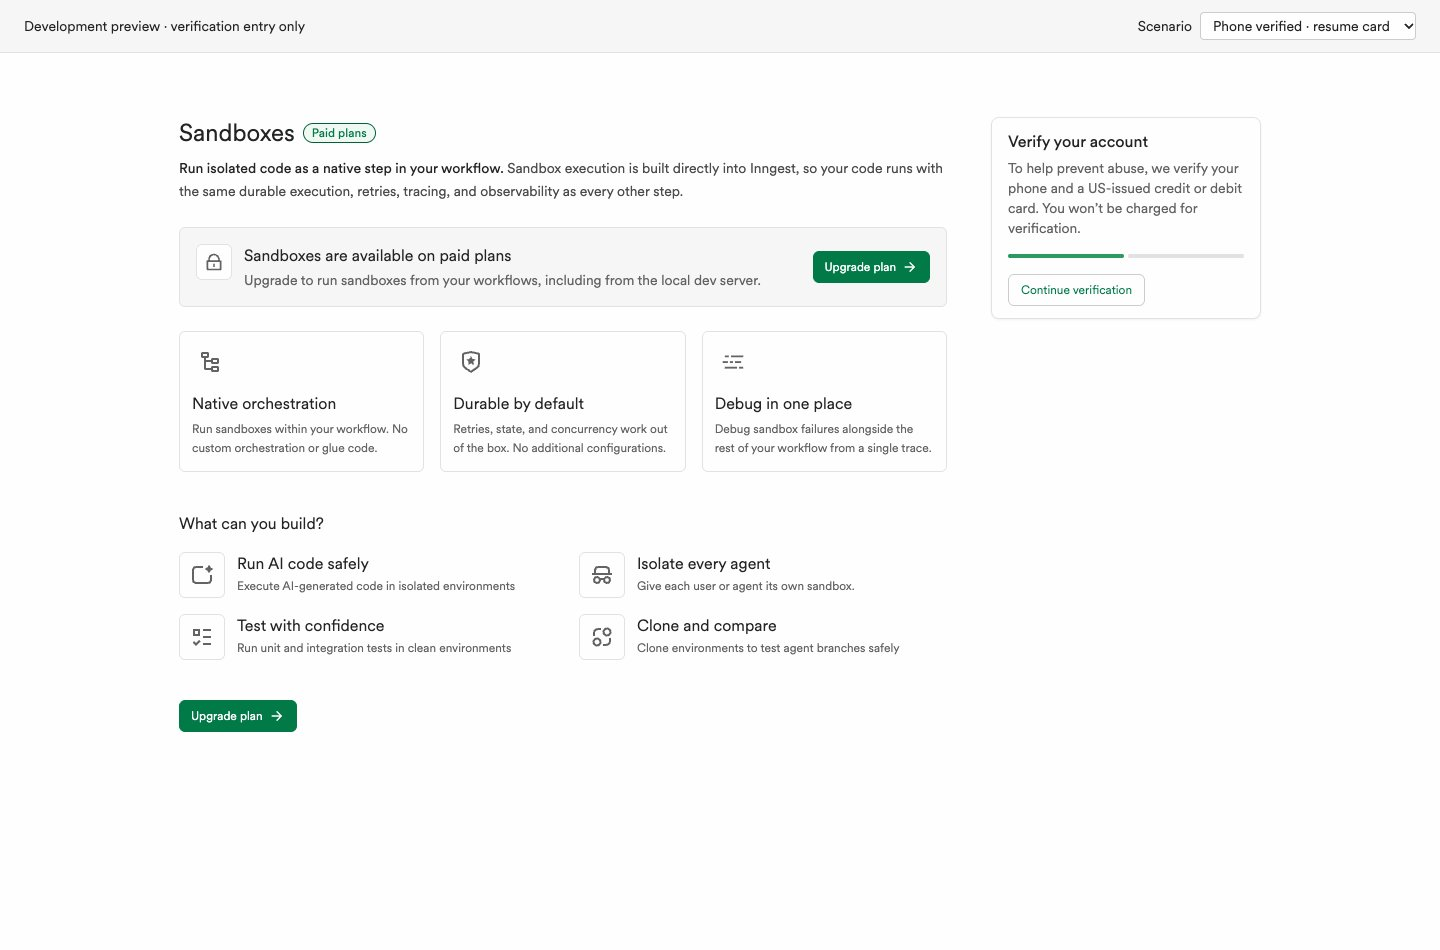
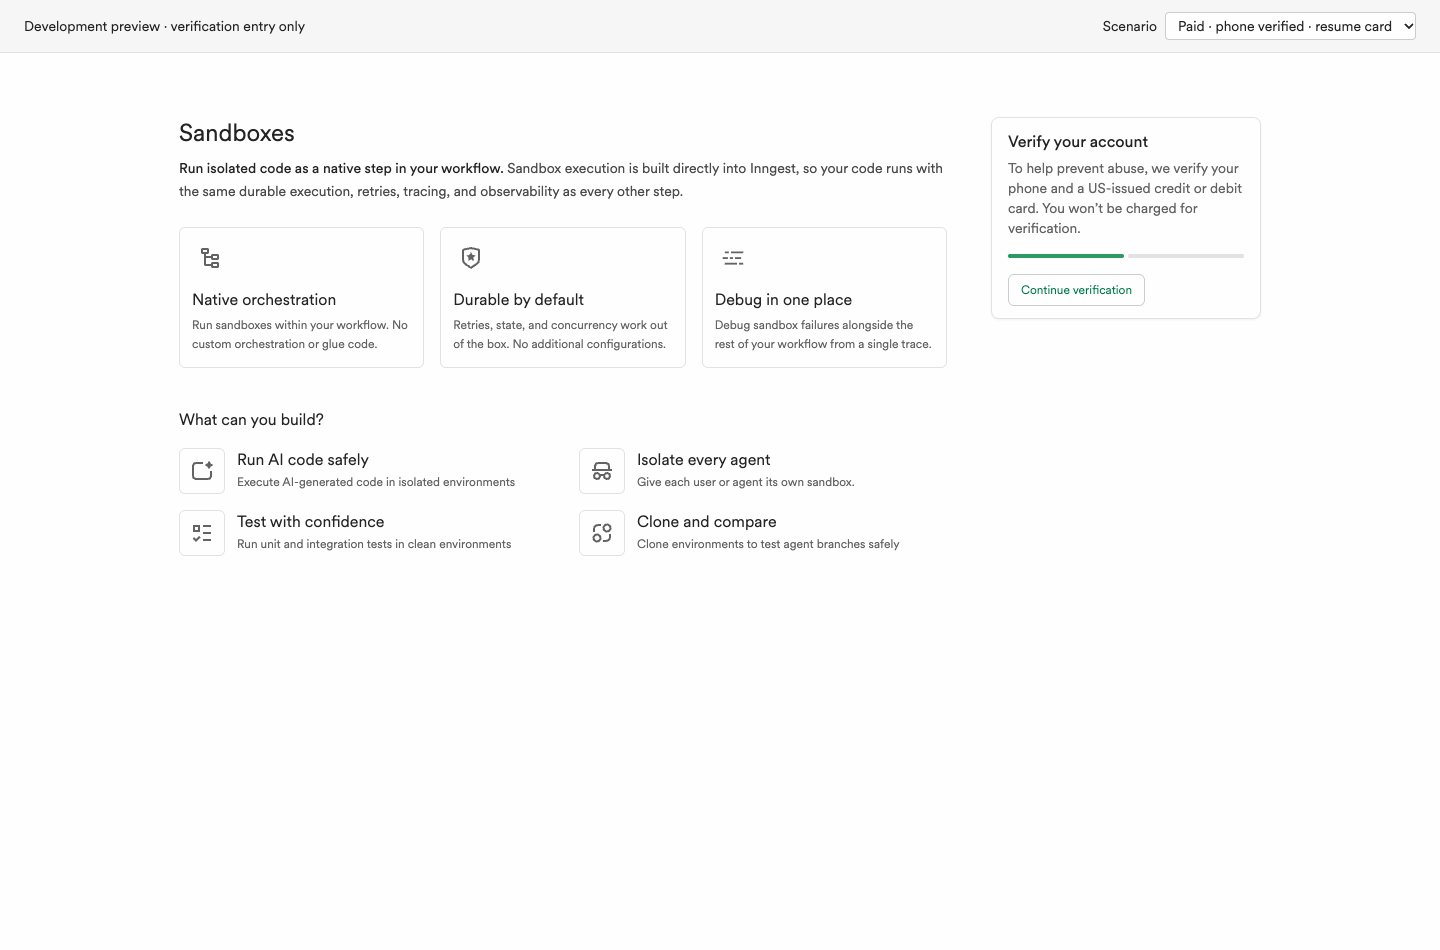
fix(cloud-ui): gate sandbox verification behind paid plans

diff --git a/ui/apps/dashboard/src/components/Sandboxes/SandboxesVerificationCallout.test.tsx b/ui/apps/dashboard/src/components/Sandboxes/SandboxesVerificationCallout.test.tsx
@@ -174,16 +174,54 @@ describe('Sandboxes zero-state composition', () => {
     expect(screen.queryByRole('complementary')).toBeNull();
   });
 
-  it('preserves content and upgrade destinations while adding and removing the callout', () => {
+  it.each<SandboxesVerificationState>([
+    initial,
+    { ...initial, started: true, progress: { completed: 1, total: 2 } },
+    { status: 'required', canVerify: false },
+    { status: 'loading' },
+    { status: 'error' },
+    { status: 'verified' },
+  ])(
+    'keeps only the upgrade treatment on a free plan with status $status',
+    (state) => {
+      const callbacks = { onVerify: vi.fn(), onRetry: vi.fn() };
+      const { container, rerender } = render(<SandboxesEmptyState />);
+      const originalContent = container.firstElementChild?.textContent;
+      const originalLinks = Array.from(
+        container.querySelectorAll('a'),
+        (link) => link.getAttribute('href'),
+      );
+      rerender(
+        <SandboxesEmptyState
+          hasPaidPlan={false}
+          verification={{ state, ...callbacks }}
+        />,
+      );
+      expect(container.firstElementChild?.textContent).toBe(originalContent);
+      expect(
+        Array.from(container.querySelectorAll('a'), (link) =>
+          link.getAttribute('href'),
+        ),
+      ).toEqual(originalLinks);
+      expect(
+        screen.getAllByRole('button', { name: 'Upgrade plan' }),
+      ).toHaveLength(2);
+      expect(screen.queryByRole('complementary')).toBeNull();
+      expect(callbacks.onVerify).not.toHaveBeenCalled();
+      expect(callbacks.onRetry).not.toHaveBeenCalled();
+    },
+  );
+
+  it('shows verification instead of upgrades on a paid plan and hides the gate after completion', () => {
     const callbacks = { onVerify: vi.fn(), onRetry: vi.fn() };
-    const { container, rerender } = render(<SandboxesEmptyState />);
+    const { container, rerender } = render(<SandboxesEmptyState hasPaidPlan />);
     const originalContent = container.firstElementChild?.textContent;
-    const originalLinks = Array.from(container.querySelectorAll('a'), (link) =>
-      link.getAttribute('href'),
-    );
 
     rerender(
-      <SandboxesEmptyState verification={{ state: initial, ...callbacks }} />,
+      <SandboxesEmptyState
+        hasPaidPlan
+        verification={{ state: initial, ...callbacks }}
+      />,
     );
     expect(screen.getByRole('complementary')).toBeTruthy();
     expect(
@@ -191,18 +229,22 @@ describe('Sandboxes zero-state composition', () => {
     ).toBeTruthy();
     fireEvent.click(screen.getByRole('button', { name: 'Start verification' }));
     expect(callbacks.onVerify).toHaveBeenCalledTimes(1);
+    expect(screen.queryByRole('button', { name: 'Upgrade plan' })).toBeNull();
+    expect(screen.queryByText('Paid plans')).toBeNull();
     expect(
-      Array.from(container.querySelectorAll('a'), (link) =>
-        link.getAttribute('href'),
-      ),
-    ).toEqual(originalLinks);
+      screen.queryByRole('heading', {
+        name: 'Sandboxes are available on paid plans',
+      }),
+    ).toBeNull();
 
     rerender(
       <SandboxesEmptyState
+        hasPaidPlan
         verification={{ state: { status: 'verified' }, ...callbacks }}
       />,
     );
     expect(screen.queryByRole('complementary')).toBeNull();
+    expect(screen.queryByRole('button', { name: 'Upgrade plan' })).toBeNull();
     expect(container.firstElementChild?.textContent).toBe(originalContent);
     expect(container.firstElementChild?.className).toContain('max-w-[816px]');
   });
@@ -211,6 +253,7 @@ describe('Sandboxes zero-state composition', () => {
     const callbacks = { onVerify: vi.fn(), onRetry: vi.fn() };
     const { rerender } = render(
       <SandboxesEmptyState
+        hasPaidPlan
         verification={{
           state: {
             ...initial,
@@ -226,6 +269,7 @@ describe('Sandboxes zero-state composition', () => {
     ).toBeTruthy();
     rerender(
       <SandboxesEmptyState
+        hasPaidPlan
         verification={{
           state: { status: 'required', canVerify: false },
           ...callbacks,
@@ -239,5 +283,26 @@ describe('Sandboxes zero-state composition', () => {
     expect(
       screen.getByRole('heading', { name: 'Ask an admin to verify' }),
     ).toBeTruthy();
+  });
+
+  it('removes stale verification actions when switching from a paid to a free account', () => {
+    const callbacks = { onVerify: vi.fn(), onRetry: vi.fn() };
+    const verification = { state: initial, ...callbacks };
+    const { rerender } = render(
+      <SandboxesEmptyState hasPaidPlan verification={verification} />,
+    );
+    expect(
+      screen.getByRole('button', { name: 'Start verification' }),
+    ).toBeTruthy();
+    rerender(
+      <SandboxesEmptyState hasPaidPlan={false} verification={verification} />,
+    );
+    expect(
+      screen.queryByRole('button', { name: 'Start verification' }),
+    ).toBeNull();
+    expect(screen.queryByRole('complementary')).toBeNull();
+    expect(
+      screen.getAllByRole('button', { name: 'Upgrade plan' }),
+    ).toHaveLength(2);
   });
 });

diff --git a/ui/apps/dashboard/src/components/Sandboxes/SandboxesEmptyState.tsx b/ui/apps/dashboard/src/components/Sandboxes/SandboxesEmptyState.tsx
@@ -40,15 +40,17 @@ function UpgradeButton() {
   );
 }
 
-// Shown to accounts whose plan does not grant sandbox access.
+// Plan eligibility is supplied separately from verification; default to the existing upgrade state.
 export default function SandboxesEmptyState({
+  hasPaidPlan = false,
   verification,
 }: {
+  hasPaidPlan?: boolean;
   verification?: SandboxesVerificationCalloutProps;
 } = {}) {
   const hasTrackedViewed = useRef(false);
   const showVerification =
-    verification && showsVerificationCallout(verification.state);
+    hasPaidPlan && verification && showsVerificationCallout(verification.state);
 
   // Fire the feature-tagged page-view event once per mount.
   useEffect(() => {
@@ -69,34 +71,38 @@ export default function SandboxesEmptyState({
       <div className="min-w-0">
         <div className="flex items-center gap-2">
           <h1 className="text-basis text-2xl">Sandboxes</h1>
-          <Pill kind="primary" appearance="outlined">
-            Paid plans
-          </Pill>
+          {!hasPaidPlan && (
+            <Pill kind="primary" appearance="outlined">
+              Paid plans
+            </Pill>
+          )}
         </div>
         <p className="text-subtle mt-2 text-sm leading-relaxed">
           <span className="text-basis font-medium">{INTRO_LEAD}</span>
           {INTRO_REST}
         </p>
 
-        <div className="border-subtle bg-canvasSubtle mt-6 flex flex-col gap-4 rounded-md border p-4 sm:flex-row sm:items-center sm:justify-between">
-          <div className="flex items-start gap-3">
-            <div className="border-subtle bg-canvasBase text-muted flex h-9 w-9 shrink-0 items-center justify-center rounded-md border">
-              <RiLockLine className="h-5 w-5" />
+        {!hasPaidPlan && (
+          <div className="border-subtle bg-canvasSubtle mt-6 flex flex-col gap-4 rounded-md border p-4 sm:flex-row sm:items-center sm:justify-between">
+            <div className="flex items-start gap-3">
+              <div className="border-subtle bg-canvasBase text-muted flex h-9 w-9 shrink-0 items-center justify-center rounded-md border">
+                <RiLockLine className="h-5 w-5" />
+              </div>
+              <div>
+                <h2 className="text-basis text-base">
+                  Sandboxes are available on paid plans
+                </h2>
+                <p className="text-muted mt-0.5 text-sm">
+                  Upgrade to run sandboxes from your workflows, including from
+                  the local dev server.
+                </p>
+              </div>
             </div>
-            <div>
-              <h2 className="text-basis text-base">
-                Sandboxes are available on paid plans
-              </h2>
-              <p className="text-muted mt-0.5 text-sm">
-                Upgrade to run sandboxes from your workflows, including from the
-                local dev server.
-              </p>
+            <div className="shrink-0">
+              <UpgradeButton />
             </div>
           </div>
-          <div className="shrink-0">
-            <UpgradeButton />
-          </div>
-        </div>
+        )}
 
         <div className="mt-6 grid grid-cols-1 gap-4 sm:grid-cols-3">
           {FEATURES.map(({ Icon, title, description }) => (
@@ -130,9 +136,11 @@ export default function SandboxesEmptyState({
           ))}
         </div>
 
-        <div className="mt-10">
-          <UpgradeButton />
-        </div>
+        {!hasPaidPlan && (
+          <div className="mt-10">
+            <UpgradeButton />
+          </div>
+        )}
       </div>
       {showVerification && (
         <aside className="row-start-1 min-w-0 lg:col-start-2">

diff --git a/ui/apps/dashboard/src/components/Sandboxes/verification-demo/SandboxesVerificationDemo.tsx b/ui/apps/dashboard/src/components/Sandboxes/verification-demo/SandboxesVerificationDemo.tsx
@@ -5,8 +5,17 @@ import SandboxesEmptyState from '../SandboxesEmptyState';
 import type { SandboxesVerificationState } from '../SandboxesVerificationCallout';
 
 const scenarios = {
+  free: {
+    label: 'Free plan · upgrade only',
+    state: {
+      status: 'required',
+      canVerify: true,
+      started: false,
+      progress: { completed: 0, total: 2 },
+    },
+  },
   start: {
-    label: 'Not started',
+    label: 'Paid · not started',
     state: {
       status: 'required',
       canVerify: true,
@@ -15,7 +24,7 @@ const scenarios = {
     },
   },
   resume: {
-    label: 'Phone verified · resume card',
+    label: 'Paid · phone verified · resume card',
     state: {
       status: 'required',
       canVerify: true,
@@ -24,7 +33,7 @@ const scenarios = {
     },
   },
   started: {
-    label: 'Started · no checks complete',
+    label: 'Paid · started · no checks complete',
     state: {
       status: 'required',
       canVerify: true,
@@ -33,17 +42,17 @@ const scenarios = {
     },
   },
   member: {
-    label: 'Admin required',
+    label: 'Paid · admin required',
     state: { status: 'required', canVerify: false },
   },
-  loading: { label: 'Loading', state: { status: 'loading' } },
-  error: { label: 'Status error · retry', state: { status: 'error' } },
+  loading: { label: 'Paid · loading', state: { status: 'loading' } },
+  error: { label: 'Paid · status error · retry', state: { status: 'error' } },
   verified: {
-    label: 'Verified · callout hidden',
+    label: 'Paid · verified · no gate',
     state: { status: 'verified' },
   },
   exempt: {
-    label: 'Not required · callout hidden',
+    label: 'Paid · not required · no gate',
     state: { status: 'not-required' },
   },
 } satisfies Record<
@@ -76,7 +85,7 @@ export function SandboxesVerificationDemo() {
     <div className="bg-canvasBase text-basis min-h-screen">
       <header className="border-subtle bg-canvasSubtle flex flex-wrap items-center justify-between gap-3 border-b px-6 py-3 text-sm">
         <p>Development preview · verification entry only</p>
-        <label className="flex items-center gap-2">
+        <label className="flex min-w-0 flex-wrap items-center gap-2">
           Scenario
           <select
             className="border-muted bg-canvasBase max-w-full rounded border px-2 py-1"
@@ -129,6 +138,7 @@ export function SandboxesVerificationDemo() {
           </section>
         ) : (
           <SandboxesEmptyState
+            hasPaidPlan={scenario !== 'free'}
             verification={{
               state: scenarios[scenario].state,
               onVerify: () => setHandoff(true),

diff --git a/ui/apps/dashboard/docs/sandbox-verification-entry-frontend.md b/ui/apps/dashboard/docs/sandbox-verification-entry-frontend.md
@@ -9,9 +9,11 @@ content, upgrade behavior, and navigation are unchanged.
 From `ui/apps/dashboard`, run `pnpm dev:sandbox-verification` and open
 <http://127.0.0.1:5175/sandbox-verification-demo.html>.
 
-The scenario selector covers not started, partially complete, started with no
-completed checks, admin required, loading, error, verified, and not required.
+The scenario selector covers a free-plan upgrade state and eight paid-plan states:
+not started, partially complete, started with no completed checks, admin required,
+loading, error, verified, and not required.
 Scenarios are also directly addressable with `?scenario=resume`, for example.
+Use `?scenario=free` to review the upgrade-only state.
 
 Start/Continue open a development-only handoff preview. Simulate completion to
 return to the same zero state with the callout removed, or return without
@@ -22,9 +24,15 @@ remain in PR #5296 and are not duplicated here.
 
 ## Integration boundary
 
-The host supplies `verification={{ state, onVerify, onRetry }}`. Absence of these
-props preserves the existing zero state. `verified` and `not-required` both hide
-the callout without reserving a sidebar or rendering a success message.
+The host supplies `hasPaidPlan` separately from
+`verification={{ state, onVerify, onRetry }}`. The default `hasPaidPlan={false}`
+preserves the existing upgrade zero state. Free plans never display verification,
+including loading/error/member treatments, even if verification props are supplied.
+
+Paid plans hide the upgrade panel, upgrade buttons, and paid-plan badge. When
+verification is required, show the callout; `verified` and `not-required` both
+hide it without reserving a sidebar or rendering a success message. Existing
+introductory content, features, and use cases are preserved in every state.
 
 `onVerify` is the handoff point for Start and Continue. The host must carry the
 current account/environment and dashboard return path into the agreed route;
@@ -45,7 +53,9 @@ are outside this PR. Do not infer verification requirements from
 
 Focused tests cover CTA handoff, partial and restarted progress, member-only
 treatment, loading/retry, completion/removal, and preservation of the existing
-zero state. The isolated preview is served only by its dedicated development
+zero state. Plan-precedence tests ensure free accounts only see upgrades, paid
+accounts never see upgrade prompts, and switching to a free account removes
+stale verification actions. The isolated preview is served only by its dedicated development
 Vite configuration, which rejects production builds.
 
 Run the checks from `ui/apps/dashboard` with:
@@ -55,7 +65,7 @@ pnpm test src/components/Sandboxes/SandboxesVerificationCallout.test.tsx
 pnpm type-check
 ```
 
-Browser review also covered all eight fixtures, Start/Continue handoff, returning
+Browser review also covered all nine fixtures, Start/Continue handoff, returning
 without completing, simulated completion, keyboard activation, and widths of
 320, 375, 768, 1024, and 1440px without horizontal overflow.
 
@@ -64,3 +74,5 @@ without completing, simulated completion, keyboard activation, and widths of
 ![Desktop: partially completed verification beside the existing zero state](./sandbox-verification-entry/desktop.jpg)
 
 ![Mobile: verification callout stacked above the existing zero state](./sandbox-verification-entry/mobile.jpg)
+
+![Free plan: upgrade-only zero state without verification](./sandbox-verification-entry/free.jpg)
